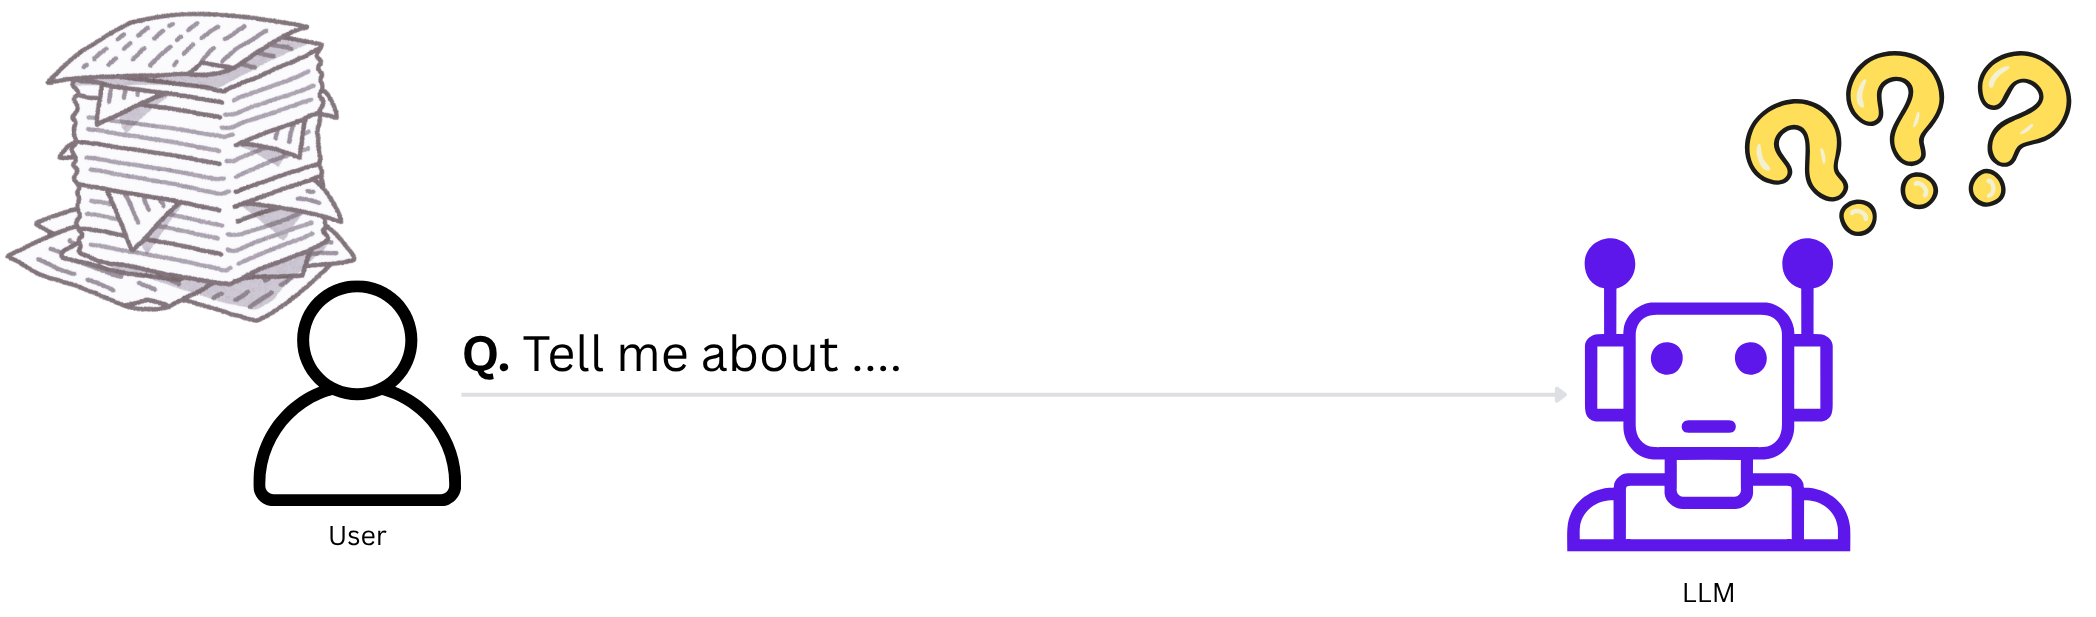
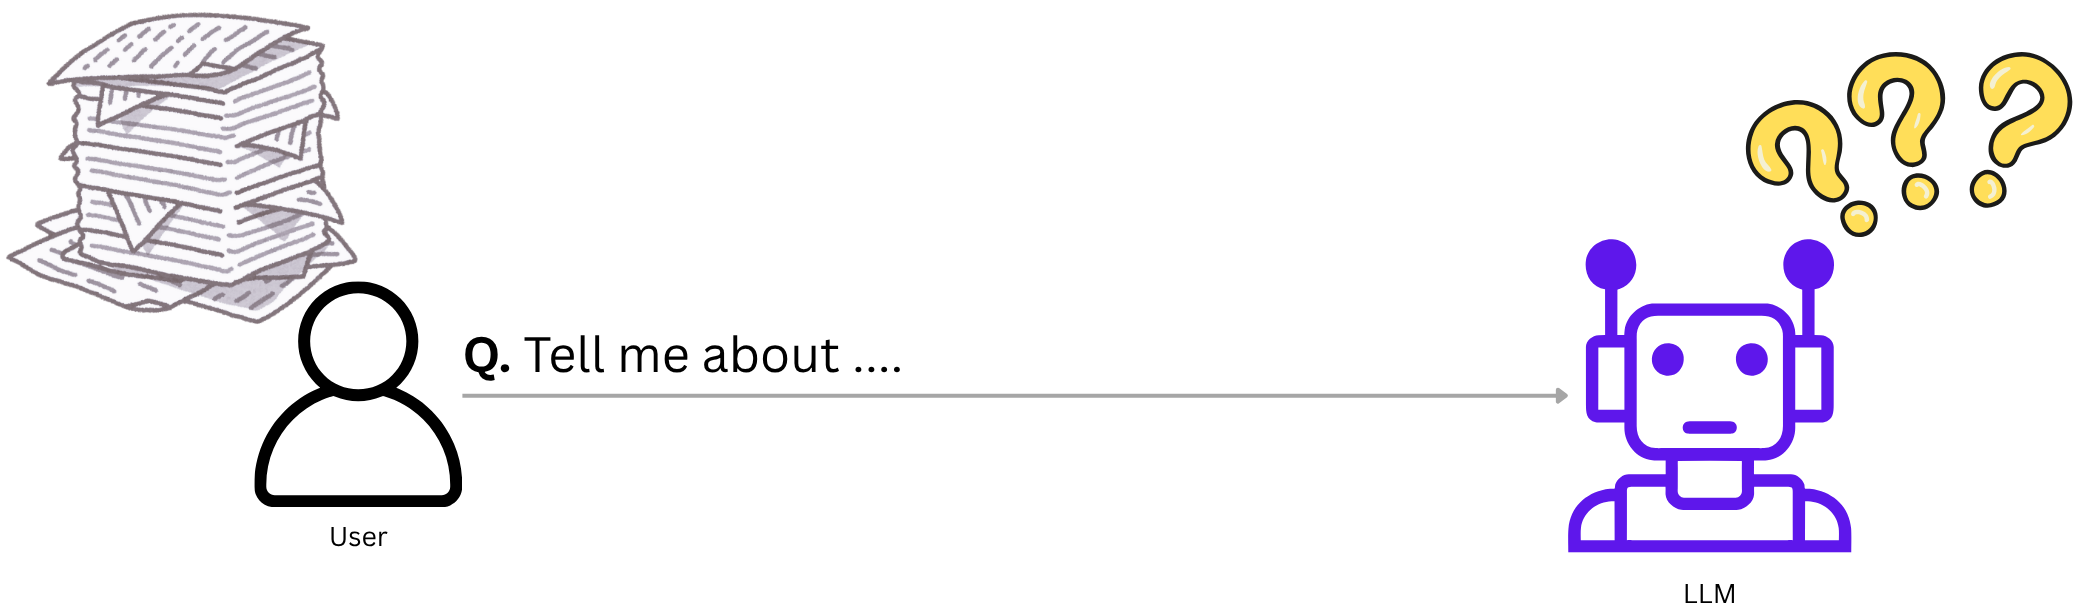
darken arrow color

diff --git a/README.md b/README.md
@@ -28,9 +28,6 @@ Below are the specific works included:
 | Book Title                                    | Author                              | Project Gutenberg Link                                                         |
 | --------------------------------------------- | ----------------------------------- | ------------------------------------------------------------------------------ |
 | *Dracula*                                     | Bram Stoker                         | [https://www.gutenberg.org/ebooks/345](https://www.gutenberg.org/ebooks/345)   |
-| *Peter Pan*                                   | J. M. Barrie                        | [https://www.gutenberg.org/ebooks/16](https://www.gutenberg.org/ebooks/16)     |
 | *The Adventures of Sherlock Holmes*           | Arthur Conan Doyle                  | [https://www.gutenberg.org/ebooks/1661](https://www.gutenberg.org/ebooks/1661) |
-| *The Odyssey*                                 | Homer (translated by Samuel Butler) | [https://www.gutenberg.org/ebooks/1727](https://www.gutenberg.org/ebooks/1727) |
-| *The Strange Case of Dr. Jekyll and Mr. Hyde* | Robert Louis Stevenson              | [https://www.gutenberg.org/ebooks/43](https://www.gutenberg.org/ebooks/43)     |
 
 > **Note:** All texts are in the public domain and are made available by Project Gutenberg under their [Terms of Use](https://www.gutenberg.org/policy/license.html).
